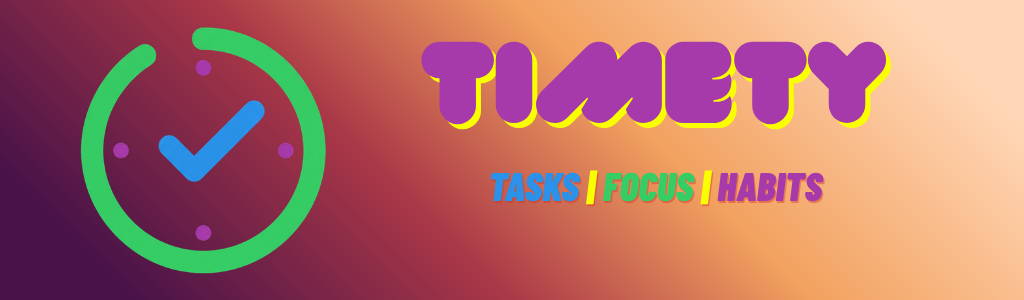
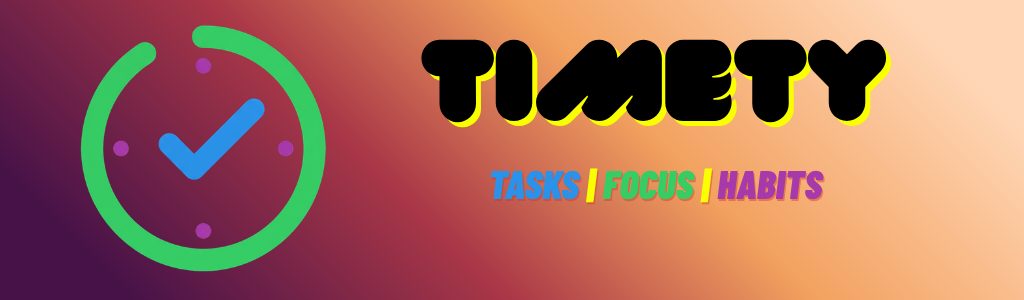
Degoogled app

diff --git a/lib/widgets/location_picker.dart b/lib/widgets/location_picker.dart
@@ -1,9 +1,10 @@
 import 'package:flutter/material.dart';
-import '../theme/app_theme.dart';
 import 'package:connectivity_plus/connectivity_plus.dart';
 import 'package:geolocator/geolocator.dart';
 import 'package:flutter_map/flutter_map.dart';
 import 'package:latlong2/latlong.dart';
+import 'package:flutter/foundation.dart';
+import '../theme/app_theme.dart';
 
 class LocationPicker extends StatefulWidget {
   final String? initialLocation;
@@ -82,9 +83,7 @@ class _LocationPickerState extends State<LocationPicker> {
       if (permission == LocationPermission.denied) {
         if (mounted) {
           ScaffoldMessenger.of(context).showSnackBar(
-            const SnackBar(
-              content: Text('Location permission was denied.'),
-            ),
+            const SnackBar(content: Text('Location permission was denied.')),
           );
         }
         return;
@@ -119,8 +118,22 @@ class _LocationPickerState extends State<LocationPicker> {
       return;
     }
 
+    LocationSettings locationSettings;
+
+    if (defaultTargetPlatform == TargetPlatform.android) {
+      locationSettings = AndroidSettings(
+        accuracy: LocationAccuracy.medium,
+        forceLocationManager:
+            true, // Forces native Android GPS, bypassing Google Play Services
+      );
+    } else {
+      locationSettings = const LocationSettings(
+        accuracy: LocationAccuracy.medium,
+      );
+    }
+
     Position position = await Geolocator.getCurrentPosition(
-      locationSettings: LocationSettings(accuracy: LocationAccuracy.medium),
+      locationSettings: locationSettings,
     );
     _currentPosition = LatLng(position.latitude, position.longitude);
 